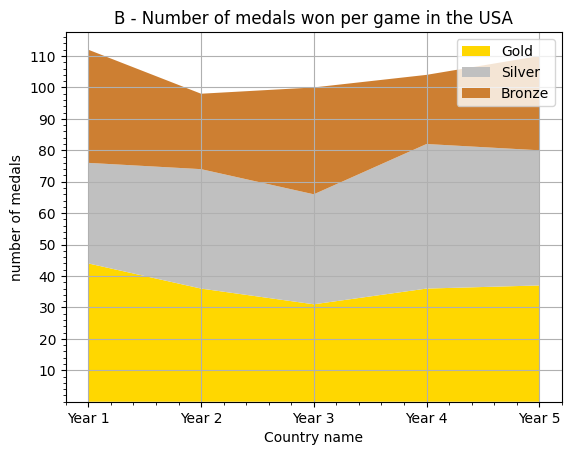
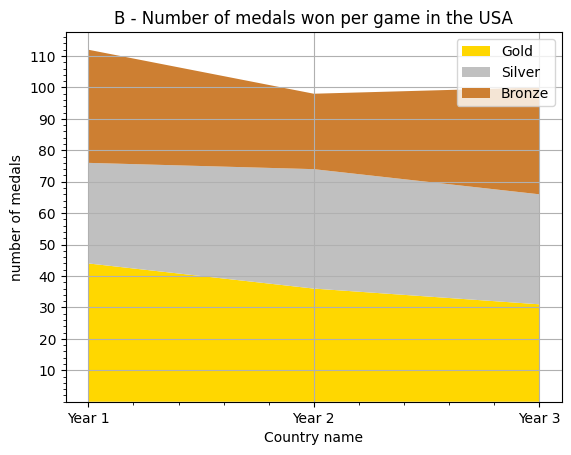
finished editing questions

diff --git a/code/main.py b/code/main.py
@@ -8,15 +8,15 @@ question = Question("Which Graph shows more gold medals for GB?",
                     "assets/line-max-trial-2.png", "A", ["A", "", "", "","B"], "line")
 question2 = Question("Which Graph shows more total medals for the USA?",
                     "assets/line-max-trial-1.png",
-                    "assets/line-max-trial-2.png", "B", ["A", "", "", "", "B"], "line")
+                    "assets/line-max-trial-2.png", "A", ["A", "", "", "", "B"], "line")
 
 # Area max trial 1 and 2
 question3 = Question("Which Graph shows more gold medals for GB?",
                     "assets/area-max-trial-1.png",
-                    "assets/area-max-trial-2.png", "B", ["A", "", "", "", "B"], "area")
+                    "assets/area-max-trial-2.png", "A", ["A", "", "", "", "B"], "area")
 question4 = Question("Which Graph shows more total medals for the USA?",
                     "assets/area-max-trial-1.png",
-                    "assets/area-max-trial-2.png", "B", ["A", "", "", "", "B"], "area")
+                    "assets/area-max-trial-2.png", "A", ["A", "", "", "", "B"], "area")
 
 # Line max trial 3 and 4
 question5 = Question("In which Graph did GB win less bronze medals?",
@@ -24,68 +24,68 @@ question5 = Question("In which Graph did GB win less bronze medals?",
                     "assets/line-max-trial-4.png", "B", ["A", "", "", "", "B"], "line")
 question6 = Question("What is the sum of the silver medals won by Germany in both graphs?",
                     "assets/line-max-trial-3.png",
-                    "assets/line-max-trial-4.png", "44", ["38", "40", "44", "46", "48"], "line")
+                    "assets/line-max-trial-4.png", "25", ["13", "25", "31", "35", "38"], "line")
 
 # Area max trial 3 and 4
 question7 = Question("In which Graph did GB win less bronze medals?",
                     "assets/area-max-trial-3.png",
-                    "assets/area-max-trial-4.png", "A", ["A", "", "", "", "B"], "area")
+                    "assets/area-max-trial-4.png", "B", ["A", "", "", "", "B"], "area")
 question8 = Question("What is the sum of the silver medals won by Germany in both graphs?",
                     "assets/area-max-trial-3.png",
-                    "assets/area-max-trial-4.png", "37", ["33", "35", "37", "39", "41"], "area")
+                    "assets/area-max-trial-4.png", "31", ["29", "23", "27", "31", "35"], "area")
 
 # line years trial 1 and 2
-question9 = Question("In Graph A, which year shows the least amount of total medals gained?",
-                    "assets/line-years-trial-1.png", # 109, 111, 112, 
-                    "assets/line-years-trial-2.png", "Year 1", ["Year 1", "Year 2", "Year 3", "Year 4", "Year 5"], "line")
-question10 = Question("In Graph B, which year shows the least amount of total medals gained??",
-                    "assets/line-years-trial-1.png",
-                    "assets/line-years-trial-2.png", "Year 2", ["Year 1", "Year 2", "Year 3", "Year 4", "Year 5"], "line")
+question9 = Question("which year shows the least amount of total medals gained?",
+                    "assets/line-years-trial-1.png", # Graph 2 shown
+                    "assets/line-years-trial-2.png", "Year 3", ["Year 1", "Year 2", "Year 3", "", ""], "line")
+question10 = Question("Which year shows the most amount of total medals gained??",
+                    "assets/line-years-trial-1.png", # Graph 1 shown
+                    "assets/line-years-trial-2.png", "Year 2", ["Year 1", "Year 2", "Year 3", "", ""], "line")
 
 # area years trial 1 and 2
-question11 = Question("In Graph A, which year shows the least amount of total medals gained?",
-                    "assets/area-years-trial-1.png",
-                    "assets/area-years-trial-2.png", "Year 3", ["Year 1", "Year 2", "Year 3", "Year 4", "Year 5"], "area")
-question12 = Question("In Graph B, which year shows the least amount of total medals gained?",
-                    "assets/area-years-trial-1.png",
-                    "assets/area-years-trial-2.png", "Year 4", ["Year 1", "Year 2", "Year 3", "Year 4", "Year 5"], "area")
+question11 = Question("Which year shows the least amount of total medals gained?",
+                    "assets/area-years-trial-1.png", # Graph 2 shown
+                    "assets/area-years-trial-2.png", "Year 2", ["Year 1", "Year 2", "Year 3", "", ""], "area")
+question12 = Question("Which year shows the most amount of total medals gained?",
+                    "assets/area-years-trial-1.png", # Graph 1 shown
+                    "assets/area-years-trial-2.png", "Year 1", ["Year 1", "Year 2", "Year 3", "", ""], "area")
 
 # line years trial 3 and 4
-question13 = Question("In Graph A, which country got the most medals?",
-                    "assets/line-years-trial-3.png",
-                    "assets/line-years-trial-4.png", "GB", ["GB", "AUS", "JP", "GER", ""], "line")
+question13 = Question("Which year shows the most gold medals?",
+                    "assets/line-years-trial-3.png", # Graph 2 shown
+                    "assets/line-years-trial-4.png", "Year 1", ["Year 1", "Year 2", "Year 3", "", ""], "line")
 # area years trial 3 and 4
-question14 = Question("In Graph A, which country got the 2nd highest amount of medals?",
-                    "assets/area-years-trial-3.png",
-                    "assets/area-years-trial-4.png", "GER", ["GB", "AUS", "JP", "GER", ""], "line")
+question14 = Question("Which year shows the most gold medals?",
+                    "assets/area-years-trial-3.png", # Graph 2 shown
+                    "assets/area-years-trial-4.png", "Year 1", ["Year 1", "Year 2", "Year 3", "", ""], "area")
 
 # line country trial 1 and 2
-question15 = Question("In Graph B, which country got the most medals?",
-                    "assets/line-country-trial-1.png",
-                    "assets/line-country-trial-2.png", "GB", ["GB", "AUS", "JP", "GER", ""], "line")
-question16 = Question("In Graph B, which country got the 2nd highest amount of medals?",
-                    "assets/line-max-trial-5.png",
-                    "assets/line-max-trial-6.png", "AUS", ["GB", "AUS", "JP", "GER", ""], "line")
+question15 = Question("Which country got the most medals?",
+                    "assets/line-country-trial-1.png", # Graph 1 shown
+                    "assets/line-country-trial-2.png", "AUS", ["GB", "AUS", "JP", "GER", ""], "line")
+question16 = Question("Which country got the 2nd highest amount of silver medals?",
+                    "assets/line-country-trial-1.png", # Graph 1 shown
+                    "assets/line-country-trial-2.png", "JP", ["GB", "AUS", "JP", "GER", ""], "line")
 
 # area country trial 1 and 2
 question17 = Question("In Graph A, which country got the most medals?",
-                    "assets/area-max-trial-5.png",
-                    "assets/area-max-trial-6.png", "GER", ["GB", "AUS", "JP", "GER", ""], "area")
-question18 = Question("In Graph A, which country got the 2nd highest amount of medals?",
-                    "assets/area-max-trial-5.png",
-                    "assets/area-max-trial-6.png", "AUS", ["GB", "AUS", "JP", "GER", ""], "area")
+                    "assets/area-country-trial-1.png", # Graph 1 shown
+                    "assets/area-country-trial-2.png", "GER", ["GB", "AUS", "JP", "GER", ""], "area")
+question18 = Question("In Graph B, which country got the 2nd highest amount of silver medals?",
+                    "assets/area-country-trial-1.png", # graph 2 shown
+                    "assets/area-country-trial-2.png", "GER", ["GB", "AUS", "JP", "GER", ""], "area")
 
 # Comparison trials
-question19 = Question("In Graph B, which country got the most medals?",
-                    "assets/area-max-trial-5.png",
-                    "assets/area-max-trial-6.png", "GER", ["GB", "AUS", "JP", "GER", ""], "area")
-question20 = Question("In Graph B, which country got the 2nd highest amount of medals?",
-                    "assets/area-max-trial-5.png",
-                    "assets/area-max-trial-6.png", "GB", ["GB", "AUS", "JP", "GER", ""], "area")
+question19 = Question("Do these graphs have the same datasets?",
+                    "assets/line-same-trial-1.png",
+                    "assets/area-same-trial-1.png", "Yes", ["Yes", "", "", "", "No"], "mix")
+question20 = Question("Do these graphs have the same datasets?",
+                    "assets/line-max-trial-1.png",
+                    "assets/area-max-trial-1.png", "No", ["Yes", "", "", "", "No"], "mix")
 
 question21 = Question("Which graphtype do you find easier to read??",
-                    "assets/line-max-trial-1.png",
-                    "assets/area-max-trial-1.png", "line", ["line", "", "", "", "area"], "")
+                    "assets/line-max-trial-2.png",
+                    "assets/area-max-trial-2.png", "", ["line", "", "", "", "area"], "N/A")
 
 
 question_list = []

diff --git a/code/graph_gen/createGraphs.py b/code/graph_gen/createGraphs.py
@@ -3,7 +3,7 @@ from graphGen import gen_line, gen_area
 def generate_graphs():
     country_list = ["USA", "Great Britain", "Australia", "Japan", "Germany"]
     country_list_short = ["Great Britain", "Australia", "Japan", "Germany"]
-    years_list = ["Year 1", "Year 2", "Year 3", "Year 4", "Year 5"]
+    years_list = ["Year 1", "Year 2", "Year 3"]
 
     # x_labels, gold_medals, silver_medals, bronze_medals, graph_label, trial, graph_numb
     # Question 1 and 2
@@ -71,7 +71,7 @@ def generate_graphs():
         country_list,
         [45, 20, 8, 7, 13],
         [31, 23, 14, 9, 15],
-        [30, 12, 10, 10, 14],
+        [30, 18, 10, 10, 14],
         "A - ",
         "max",
         3
@@ -80,27 +80,28 @@ def generate_graphs():
         country_list,
         [37, 16, 14, 7, 15],
         [22, 20, 15, 13, 13],
-        [37, 13, 16, 19, 13],
+        [37, 7, 16, 19, 13],
         "B - ",
         "max",
         4
     )
 
-    # Question 9 and 10
+    # Question 9
     gen_line(
         years_list,
-        [38, 48, 45, 46, 43],
-        [33, 24, 34, 22, 30],
-        [37, 36, 31, 36, 37],
+        [38, 48, 46 -7],
+        [33, 24, 22 - 4],
+        [37, 36, 36 - 10 ],
         "B - ",
         "years",
         2
     )
+    # Question 10
     gen_line(
         years_list,
-        [32, 48, 45, 46, 43],
-        [36, 24, 34, 22, 30],
-        [44, 36, 31, 36, 37],
+        [32, 48 + 5, 45],
+        [36, 24 + 10, 34],
+        [44, 36 + 10, 31],
         "A - ",
         "years",
         1
@@ -109,18 +110,18 @@ def generate_graphs():
     # Question 11 and 12
     gen_area(
         years_list,
-        [45, 42, 45, 38, 38],
-        [29, 25, 35, 24, 24],
-        [38, 35, 34, 31, 33],
+        [45, 41, 39],
+        [29, 25, 25],
+        [38, 35, 34],
         "A - ",
         "years",
         1
     )
     gen_area(
         years_list,
-        [46, 36, 41, 41, 37],
-        [29, 22, 30, 24, 23],
-        [37, 35, 33, 37, 38],
+        [46, 36, 41],
+        [29, 22, 30],
+        [37, 35, 33],
         "B - ",
         "years",
         2
@@ -129,18 +130,18 @@ def generate_graphs():
     # Question 13
     gen_line(
         years_list,
-        [32, 38, 35, 36, 47],
-        [31, 39, 32, 36, 37],
-        [33, 24, 34, 22, 30],
+        [32, 38, 35],
+        [31, 39, 32],
+        [33, 24, 34],
         "A - ",
         "years",
         3
     )
     gen_line(
         years_list,
-        [44, 36, 31, 36, 37],
-        [32, 38, 35, 46, 43],
-        [36, 24, 34, 22, 30],
+        [44, 36, 31],
+        [32, 38, 35],
+        [36, 24, 34],
         "B - ",
         "years",
         4
@@ -149,18 +150,18 @@ def generate_graphs():
     # Question 14
     gen_area(
         years_list,
-        [32, 38, 35, 36, 47],
-        [31, 39, 32, 36, 37],
-        [33, 24, 34, 22, 30],
+        [32, 38, 35],
+        [31, 39, 32],
+        [33, 24, 34],
         "A - ",
         "years",
         3
     )
     gen_area(
         years_list,
-        [44, 36, 31, 36, 37],
-        [32, 38, 35, 46, 43],
-        [36, 24, 34, 22, 30],
+        [44, 36, 31],
+        [32, 38, 35],
+        [36, 24, 34],
         "B - ",
         "years",
         4
@@ -178,9 +179,9 @@ def generate_graphs():
     )
     gen_line(
         country_list_short,
-        [14, 8, 7, 13],
-        [17, 8, 8, 5],
-        [9, 10, 9, 10],
+        [14, 18, 7, 13],
+        [17, 17, 8, 5],
+        [7, 9, 8, 10],
         "",
         "country",
         2
@@ -189,7 +190,7 @@ def generate_graphs():
     # Question 17 and 18
     gen_area(
         country_list_short,
-        [16, 12, 7, 13],
+        [16, 12, 14, 18],
         [14, 15, 11, 14],
         [12, 15, 13, 13],
         "",
@@ -199,14 +200,34 @@ def generate_graphs():
     gen_area(
         country_list_short,
         [18, 19, 16, 20],
-        [12, 22, 14, 19],
-        [10, 13, 18, 8],
+        [12, 28, 14, 19],
+        [6, 13, 18, 8],
         "",
         "country",
         2
     )
 
-    # NOTE: Question 19 and 20 will compare pre-existing graphs
+    # Question 19
+    gen_area(
+        country_list,
+        [39, 8, 3, 7, 9],
+        [32, 4, 12, 6, 14],
+        [32, 11, 6, 12, 8],
+        "",
+        "same",
+        1
+    )
+    gen_line(
+        country_list,
+        [39, 8, 3, 7, 9],
+        [32, 4, 12, 6, 14],
+        [32, 11, 6, 12, 8],
+        "",
+        "same",
+        1
+    )
+
+    # NOTE: Question 20 will compare pre-existing graphs
 
 
 # gen_line(

diff --git a/code/quiz/ui.py b/code/quiz/ui.py
@@ -79,15 +79,12 @@ class QuizUI:
         self.canvas.itemconfig(self.question_text, text=text)
 
     def update_graphs(self):
-        
-        # Question indexes that do not reuqire the 1st graph
-        hide_img_1 = [10, 12, 15, 16, 19, 20]
-
-        # Question indexes that do not require the 2nd graph
-        hide_img_2 = [9, 11, 13, 14, 17, 18]
-
+        """Manages how images are displayed depending on location in quiz"""
         global img1
         global img2
+
+        hide_img_1 = [9, 11, 13, 14, 16, 18]
+        hide_img_2 = [10, 12, 15, 17]
 
         img1 = ImageTk.PhotoImage(Image.open(os.path.normpath(self.controller.current_question.image_path1)))
         self.canvas.itemconfig(self.image1, image=img1)
@@ -95,20 +92,29 @@ class QuizUI:
         img2 = ImageTk.PhotoImage(Image.open(os.path.normpath(self.controller.current_question.image_path2)))
         self.canvas.itemconfig(self.image2, image=img2)
 
+
+        # Move images to centre since we only display 1 image for a few questions
+        if self.controller.q_numb == 9:
+            self.canvas.move(self.image1, 300, 0)
+            self.canvas.move(self.image2, -300, 0)
+
+        # Single image display over so move them apart again
+        if self.controller.q_numb == 19:
+            # Ensure both images are shown
+            self.canvas.itemconfig(self.image1, state="normal")
+            self.canvas.itemconfig(self.image2, state="normal")
+
+            self.canvas.move(self.image1, -300, 0)
+            self.canvas.move(self.image2, 300, 0)
+
         if self.controller.q_numb in hide_img_1:
             self.canvas.itemconfig(self.image1, state="hidden")
             self.canvas.itemconfig(self.image2, state="normal")
-            self.canvas.move(self.image2, -300, 0)
 
         elif self.controller.q_numb in hide_img_2:
             self.canvas.itemconfig(self.image1, state="normal")
             self.canvas.itemconfig(self.image2, state="hidden")
-            self.canvas.move(self.image1, 300, 0)
-        elif self.controller.q_numb == 21:
-            self.canvas.itemconfig(self.image2, state="normal")
-            self.canvas.itemconfig(self.image1, state="normal")
-            self.canvas.move(self.image1, 300, 0)
-            self.canvas.move(self.image2, -300, 0)
+
 
 
     def answer_buttons(self):
